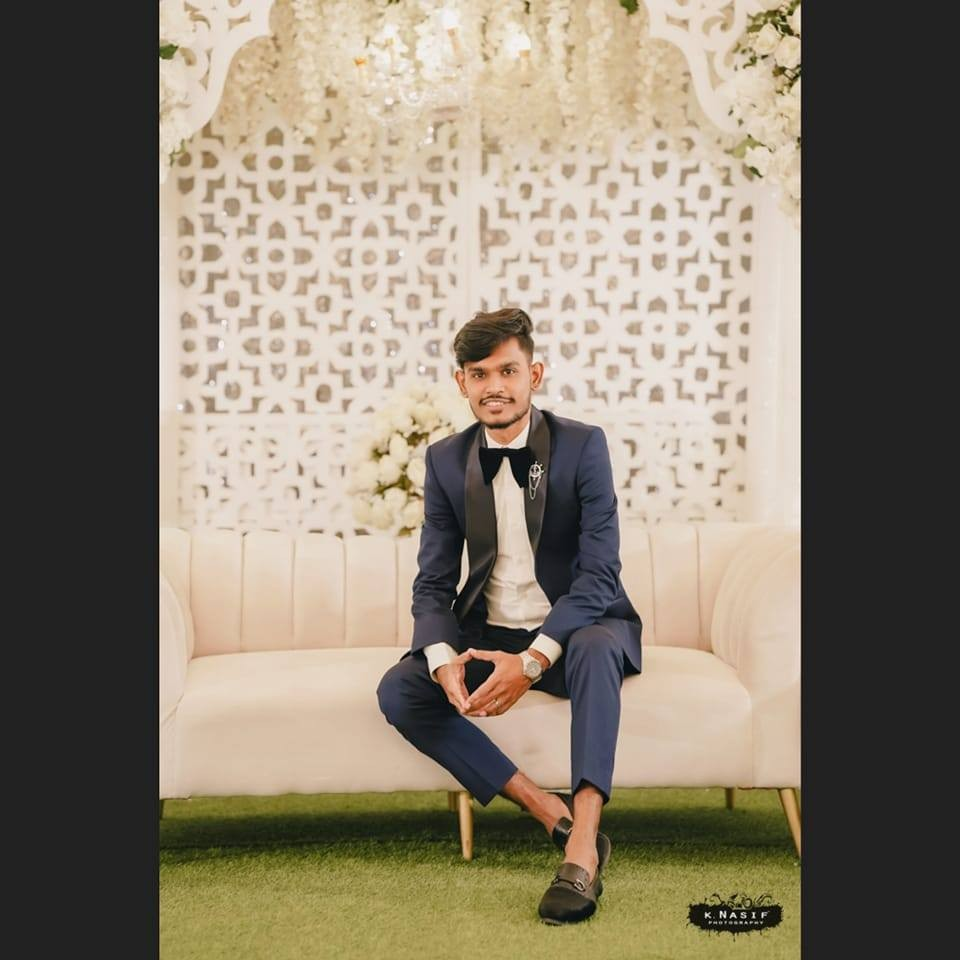
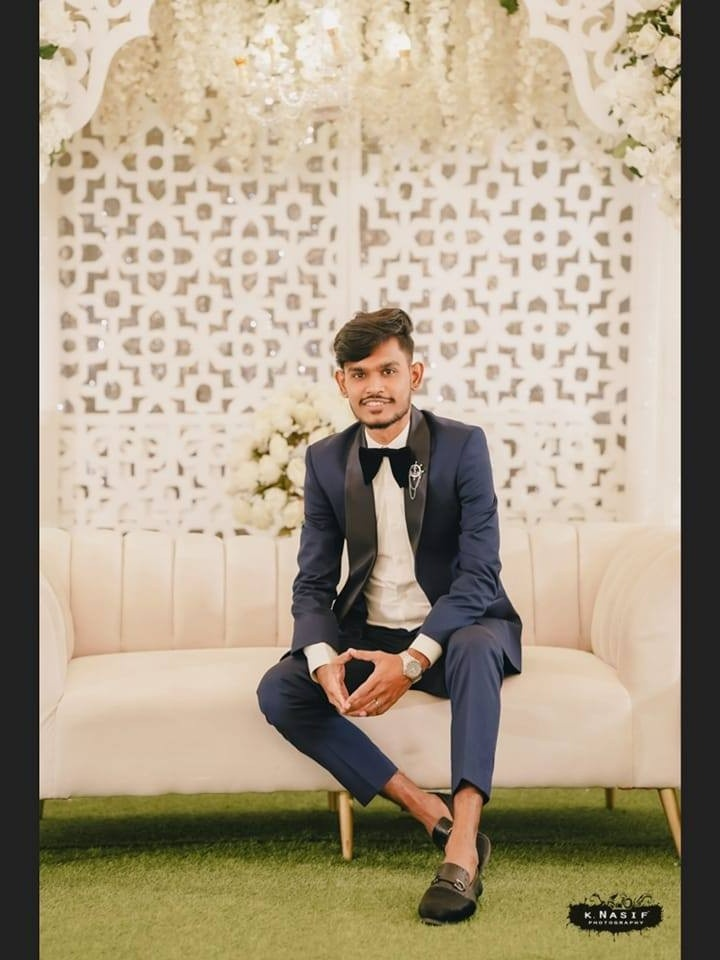
image crop

diff --git a/index.html b/index.html
@@ -118,10 +118,10 @@
     .btn svg{width:18px; height:18px}
 
     .photo{
-      aspect-ratio:1/1; overflow:hidden; border-radius:20px; margin:6px; background:#0002;
+      aspect-ratio:3/4; overflow:hidden; border-radius:20px; margin:6px; background:#0002;
       display:grid; place-items:center; position:relative;
     }
-    .photo img{width:100%; height:100%; object-fit:cover}
+    .photo img{width:100%; height:100%; object-fit:cover; border-radius:20px}
     .chip-row{display:flex; flex-wrap:wrap; gap:8px; margin-top:14px}
     .chip{font-size:.85rem; padding:6px 10px; border-radius:999px; background:color-mix(in oklab, var(--text) 8%, transparent); border:1px solid color-mix(in oklab, var(--text) 10%, transparent); font-weight:500}
 
